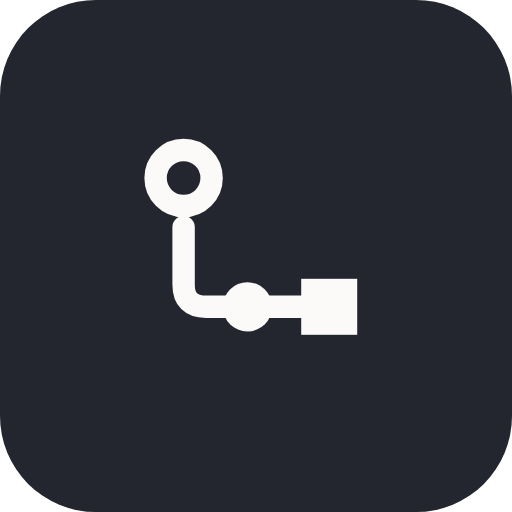
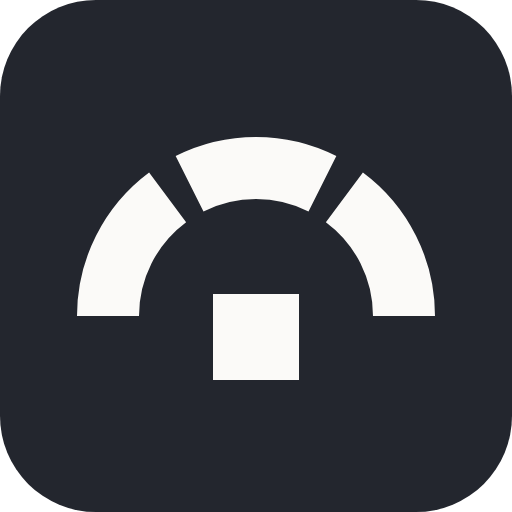
feat(brand): simbolo 2.0 'l'Emiciclo' (settori + fonte), esplorazione documentata

Changed region(s): [[0.125, 0.25, 0.875, 0.75]]

diff --git a/BRAND_GUIDELINES.md b/BRAND_GUIDELINES.md
@@ -106,31 +106,30 @@ Da questo concetto discendono: il simbolo (§9), il linguaggio grafico (§13), i
 
 ## 9. Logo
 
-### Simbolo — "il Tracciato"
+### Simbolo — "l'Emiciclo" (v2, selezionato dopo esplorazione)
 
-Tre elementi su una diagonale, collegati da una linea:
+Tre settori d'arco che formano un emiciclo, con un quadrato pieno al centro della corda:
 
 ```
-  ○
-   \
-    ●
-     \
-      ■
+   ◠ ◠ ◠
+     ■
 ```
 
-- **Cerchio aperto** = la domanda (aperta, umana)
-- **Nodo pieno** = il passaggio nel grafo di conoscenza
-- **Quadrato pieno** = la fonte (chiusa, ancorata, ufficiale)
+- **Tre settori** = i gruppi in Aula: il Parlamento come rete di parti distinte, non un blocco unico. I vuoti tra i settori sono i corridoi dell'Aula.
+- **Quadrato pieno** = il podio di chi parla e insieme la fonte: ciò che viene detto in Aula è ciò che il sistema ancora al resoconto. Angoli vivi = documento.
+- La lettura complessiva: *l'Aula che si deposita in una fonte verificabile* (HEMICYCLE + NETWORK + TRACE + SOURCE).
 
 Geometria di riferimento (griglia 24×24):
-- cerchio: centro (5.5, 5.5), r 2.6, stroke 2, senza riempimento
-- linea: da (7.4, 7.4) a (17, 17), stroke 2, round cap, interrotta dal nodo
-- nodo: cerchio pieno r 1.8 centro (11.5, 11.5)
-- quadrato: 5×5, angoli vivi, centro (17.5, 17.5)
+- settori: centro (12, 15.2), raggio 8, stroke 3.6, terminali netti (butt); spans 180°–126.7°, 116.7°–63.3°, 53.3°–0° (gap 10°)
+- quadrato: 4.8×4.8, centro (12, 16.35)
 
-Il simbolo vive da solo: favicon, app icon, avatar social, watermark, logo su paper. A 16px il tracciato si semplifica: cerchio, nodo e quadrato senza linea (la diagonale resta leggibile per allineamento).
+A 16px i tre settori degradano con grazia in un arco unico: il simbolo resta leggibile (test superato su favicon 16/32).
 
-Cosa NON è: non è una cupola, non è un cervello, non è un circuito, non è un tricolore, non contiene "RAG".
+**Processo di selezione (settembre 2026).** Esplorate 5 direzioni × 30+ varianti (fogli in `assets/brand/`): (A) emiciclo astratto ad archi concentrici — scartato, lettura "segnale wi-fi"; (B) emiciclo di nodi-seggio — leggibile solo a grandi dimensioni; (C) emiciclo + tracciato discendente — la famiglia cerchio-arco-gomito legge come "cuffie/headset"; (D) spazio negativo — letture ambigue (archi, avatar); (E) evoluzione del tracciato v1 — stessi problemi di C. La sintesi vincente unisce la B (settori = rete) e la D (i vuoti disegnano l'Aula) mantenendo dal tracciato v1 il quadrato-fonte come ancora.
+
+Cosa NON è: non è una cupola, non è Montecitorio, non è un cervello, non è un circuito, non è un tricolore, non contiene "RAG".
+
+Nei contesti digitali un solo settore può usare l'accento Blu Archivio (il settore "che parla"); su carta e in contesti formali il simbolo è sempre monocromo.
 
 ### Sistema
 
